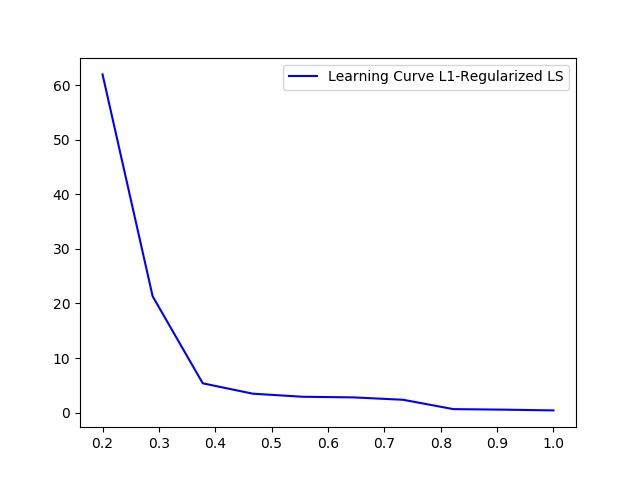
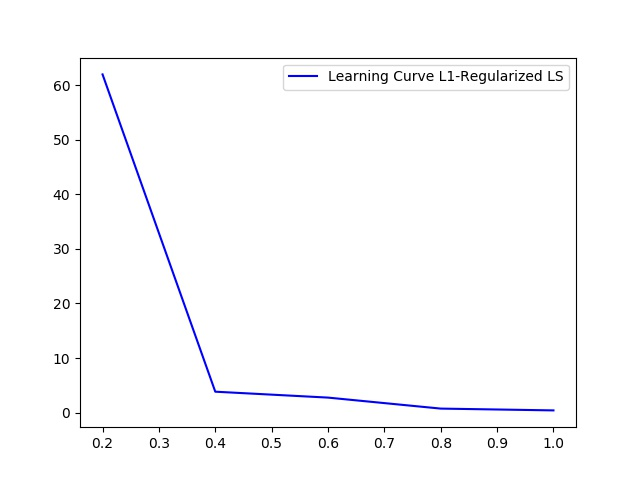
Plot round errors

Changed region(s): [[0.1562, 0.1562, 0.2812, 0.6562], [0.25, 0.625, 0.4688, 0.8438], [0.5, 0.8125, 0.75, 0.875]]

diff --git a/PA-1/PA1_source_code.py b/PA-1/PA1_source_code.py
@@ -210,7 +210,7 @@ def learning_curve(polyx,polyy,sampx,sampy,paradict={},subset=[1],repeat=1,metho
         err_perround = 0
         for i in range(0,repeat):
             resampx, resampy = resample(sampx, sampy,n_samples=nsamp,replace=False, random_state=i*17)
-            round_err = experiment(polyx,polyy,resampx,resampy,paradict,method=method,plot_title=NAME_MAP[method]+' subset '+str(size),show_plot=False)
+            round_err = experiment(polyx,polyy,resampx,resampy,paradict,method=method,plot_title=NAME_MAP[method]+' subset '+str(round(size,1)),show_plot=not i)
             # if parameter dictionnary is not empty
             #if method == 'BR':
                 #theta,SIGMA_theta, prediction,cov = experiment(polyx,polyy,resampx,resampy,paradict,method=method,plot_title=method+' '+str(size))
@@ -325,7 +325,7 @@ def main():
     mse_BR = experiment(polyx,polyy,sampx,sampy,paradict=opt_para_BR,method='BR',plot_title=NAME_MAP['BR'])
 
     # learning curve experiments
-    subset = np.linspace(0.2,1,10)
+    subset = np.linspace(0.2,1,5)
     err_LS = learning_curve(polyx,polyy,sampx,sampy,subset=subset,repeat=10,method='LS',plot_title='Learning Curve '+NAME_MAP['LS'])
     err_RLS = learning_curve(polyx,polyy,sampx,sampy,subset=subset,repeat=10,method='RLS',plot_title='Learning Curve '+NAME_MAP['RLS'])
     err_LASSO = learning_curve(polyx,polyy,sampx,sampy,subset=subset,repeat=10,method='LASSO',plot_title='Learning Curve '+NAME_MAP['LASSO'])
